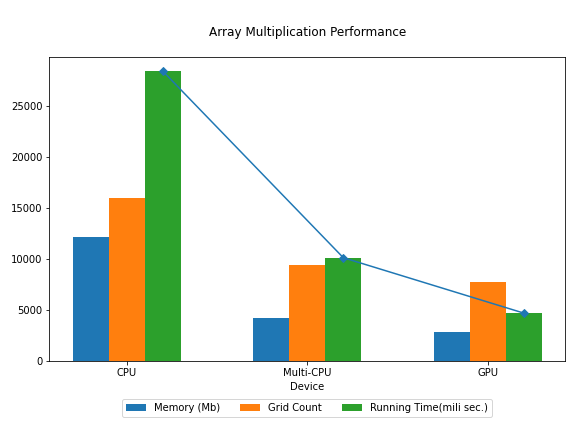
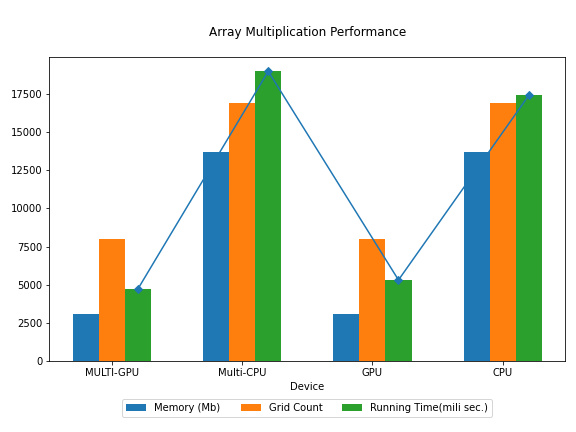
**

diff --git a/AMemoryRunTest.py b/AMemoryRunTest.py
@@ -1,91 +1,148 @@
+import gc, math, psutil
 import numpy, cupy
-import numpy as np, cupy as cp, math, psutil, dask.array as da
+import numpy as np, cupy as cp, dask.array as da
 #from dask_cuda import LocalCUDACluster
 #from dask.distributed import Client
 from time import *
 from time import perf_counter
 
-def test_memory_multiply_performance(devices) :     
+def test_memory_multiply_performance( devices ) :     
 
     memories = []
     durations = []
     grid_counts = []
-
-    for device in devices : 
-        device = device.lower()
-        rs = None
-
-        scheduler = "single-threaded" 
-
-        if device.__contains__( "multi" ) :
-            scheduler = "threads"
-        pass 
-
-        s = 9_350
-        
-        free_memory = psutil.virtual_memory().available
-        
-        if device.__contains__( "cpu" ):
-            #print( f"device is {device}")
-            pass
-        elif device.__contains__( "gpu" ) :
-            #print( f"device is {device}")
-            import GPUtil
     
-            gpus = GPUtil.getGPUs()
-            for gpu in gpus:
-                free_memory = gpu.memoryFree*1e6*3/4
-                break
-            pass
-        pass
+    all_devices = []
     
-        s = int( math.sqrt( free_memory/8 ) )//2
+    for use_dask in [0, 1 ] : 
 
-        then = perf_counter()
-
-        print( f"device = {device}, grid_count = {s:_}, scheduler = {scheduler}" )
-
-        t = np.random.rand( s*s ) + 1j*np.random.rand( s*s )
-        t = t.reshape( s, s )
-        if "gpu" in device : 
-            t = cupy.array( t )
-        pass
-        x = da.from_array( t, chunks=(2**14, 2*14) )
-        del t
+        for device in devices : 
+            device = device.lower()
         
-        t = np.random.rand( s*s ) + 1j*np.random.rand( s*s )
-        t = t.reshape( s, s )
-        if "gpu" in device : 
-            t = cupy.array( t )
-        pass
-        y = da.from_array( t, chunks=(2**14, 2*14) )    
-        del t
+            if use_dask : 
+                all_devices.append( f"{device} DSK" )
+            else : 
+                all_devices.append( device )
+            pass
+        
+            rs = None
 
-        z = x*y
-        z = z.compute(scheduler=scheduler)
+            scheduler = "single-threaded" 
 
-        arrays = [ x, y, z ]
+            if device.__contains__( "multi" ) :
+                scheduler = "threads"
+            pass 
 
-        bytes = 0 
+            s = 9_350
+            
+            free_memory = psutil.virtual_memory().total*0.8
+            
+            if device.__contains__( "cpu" ):
+                #print( f"device is {device}")
+                pass
+            elif device.__contains__( "gpu" ) :
+                #print( f"device is {device}")
+                import GPUtil
+        
+                gpu = GPUtil.getGPUs()[0]
+                
+                free_memory_prev = gpu.memoryFree*1e6*3/4
+                free_memory = gpu.memoryTotal*1e6*3/4 
+            pass
+        
+            s = int( math.sqrt( free_memory/8 ) )//3
 
-        for array in arrays :
-            bytes += array.nbytes
-        pass
+            then = perf_counter()
 
-        elapsed = perf_counter() - then
+            print( f"device = {device}, grid_count = {s:_}, scheduler = {scheduler}, dask = {use_dask}" )
 
-        memories.append( bytes )
-        durations.append( elapsed )
-        grid_counts.append( s )
+            t = np.random.rand( s*s ) + 1j*np.random.rand( s*s )
+            t = t.reshape( s, s )
+            if "gpu" in device : 
+                t = cupy.array( t )
+            pass
+        
+            x = None 
+            if use_dask : 
+                x = da.from_array( t, chunks=(2**14, 2*14) )
+                del t
+            else :
+                x = t
+            pass
+            
+            t = np.random.rand( s*s ) + 1j*np.random.rand( s*s )
+            t = t.reshape( s, s )
+            if "gpu" in device : 
+                t = cupy.array( t )
+            pass
+        
+            y = None        
+            if use_dask :
+                y = da.from_array( t, chunks=(2**14, 2*14) )
+                del t
+            else :
+                y = t
+            pass
 
-        print( f"Memory = {bytes/1e9:.4f} Gb", f" Elapsed = {elapsed:.2f} seconds" )
-        print() 
+            z = x*y
+            if use_dask : 
+                z = z.compute(scheduler=scheduler)
+            pass
 
-        for array in arrays : 
-            del array
-        pass
-    pass
+            arrays = [ x, y, z ]
 
-    return memories, durations, grid_counts
+            bytes = 0 
+
+            for array in arrays :
+                bytes += array.nbytes
+                
+                del array
+            pass
+
+            elapsed = perf_counter() - then
+
+            memories.append( bytes )
+            durations.append( elapsed )
+            grid_counts.append( s )
+
+            print( f"Memory = {bytes/1e9:.4f} Gb", f" Elapsed = {elapsed:.2f} seconds" )
+            print() 
+            
+        pass # device
+    pass # use_dask
+
+    from matplotlib import pyplot as plt
+    row_cnt = 1; col_cnt = 1
+    fig, charts = plt.subplots( row_cnt, col_cnt, figsize=( 8*col_cnt, 6*row_cnt) )
+    charts = charts.flatten() if row_cnt*col_cnt > 1 else [charts]
+    chart_idx = 0 
+    chart = charts[ chart_idx ]
+
+    n = len( all_devices )
+    x = numpy.arange( n )
+
+    memories = numpy.array( memories )/1e6
+    durations = numpy.array( durations )*1e3
+
+    w = 0.2 
+
+    idx = -1
+    chart.bar ( x + w*idx, memories, label="Memory (Mb)", width=w ); idx+=1
+    chart.bar ( x + w*idx, grid_counts, label="Grid Count", width=w ); idx+=1
+    chart.bar ( x + w*idx, durations, label="Running Time(mili sec.)", width=w );
+    chart.plot( x + w*idx, durations, marker="D" )
+
+    title = f"\nArray Multiplication Performance\n" 
+    
+    chart.set_title( title )
+    chart.set_xlabel( "Device\n" )
+    chart.set_xticks( x )
+    chart.set_xticklabels( all_devices ) 
+    chart.legend(loc="lower center", bbox_to_anchor=(0.5, -0.2), ncol=n)
+
+    plt.tight_layout()
+    plt.savefig( f"./result/array_multiplication_performance.png" )
+    plt.show()
 
 pass # test_memory_multiply_performance
+
